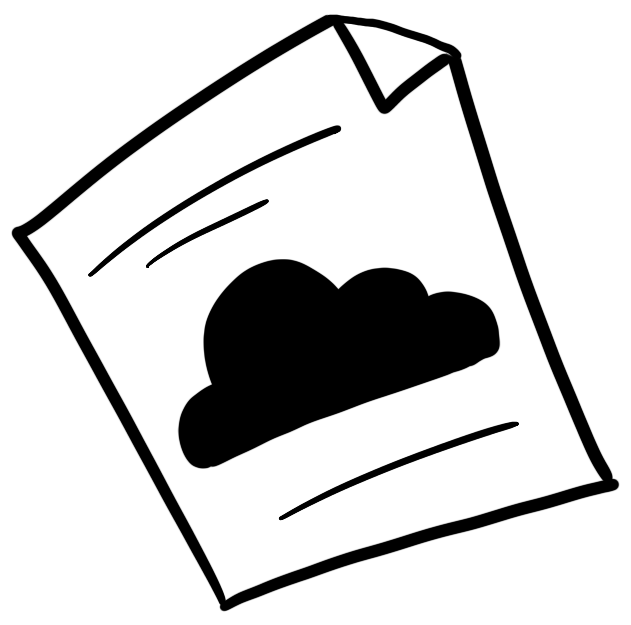
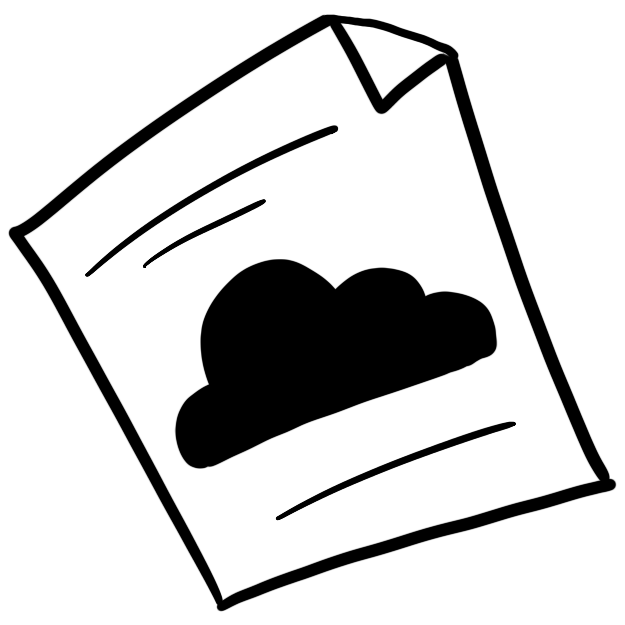
resized project pictures

diff --git a/css/layout.css b/css/layout.css
@@ -595,69 +595,8 @@ call-to-action .button {
 	color: #D8D8D8;
 }
 
-/* ------------------------------------------------------------------
-/* g. Testimonials
-/* ------------------------------------------------------------------ */
 
-#testimonials {
-   background: #1F1F1F url(../images/testimonials-bg.jpg) no-repeat center center;
-   background-size: cover !important;
-	-webkit-background-size: cover !important;
-   background-attachment: fixed;
 
-   position: relative;
-   min-height: 200px;
-   width: 100%;
-   overflow: hidden;
-}
-#testimonials .text-container {
-   padding-top: 96px;
-   padding-bottom: 66px;
-}
-#testimonials h1 {
-   font: 18px/24px 'opensans-bold', sans-serif;   
-   text-transform: uppercase;
-   letter-spacing: 3px;
-   color: #fff;
-}
-#testimonials h1 span { display: none; }
-#testimonials .header-col { padding-top: 9px; }
-#testimonials .header-col h1:before {
-   font-family: 'FontAwesome';
-   content: "\f10d";
-	padding-right: 10px;
-	font-size: 72px;
-   line-height: 72px;
-   text-align: left;
-   float: left;
-   color: #fff;
-}
-
-/*	Blockquotes */
-#testimonials blockquote {
-   margin: 0 0px 30px 0px;
-   padding-left: 0;
-   position: relative;
-   text-shadow: 0px 1px 3px rgba(0, 0, 0, 1);
-}
-#testimonials blockquote:before { content: none; }
-#testimonials blockquote p {
-   font-family: 'librebaskerville-italic', serif;
-   padding: 0;
-   font-size: 24px;
-   line-height: 48px;
-   color: #fff
-}
-#testimonials blockquote cite {
-   display: block;
-   font-size: 12px;
-   font-style: normal;
-   line-height: 18px;
-   color: #fff;
-}
-#testimonials blockquote cite:before { content: "\2014 \0020"; }
-#testimonials blockquote cite a,
-#testimonials blockquote cite a:visited { color: #8B9798; border: none }
 
 /* Flex Slider
 /* ------------------------------------------------------------------ */

diff --git a/index.html b/index.html
@@ -238,7 +238,7 @@
       </div> <!-- End Education -->
    <!-- Certifications
       ----------------------------------------------- -->
-      <div class="row skill">
+      <div class="row certications">
 
          <div class="three columns header-col">
             <h1><span>Certifications</span></h1>
@@ -257,7 +257,7 @@
                   <li><em>AWS SysOps Administrator Associate </li>
 					</ul>
 
-				</div><!-- end skill-bars -->
+				</div><!-- certifications end -->
 
 			</div> <!-- main-col end -->
 
